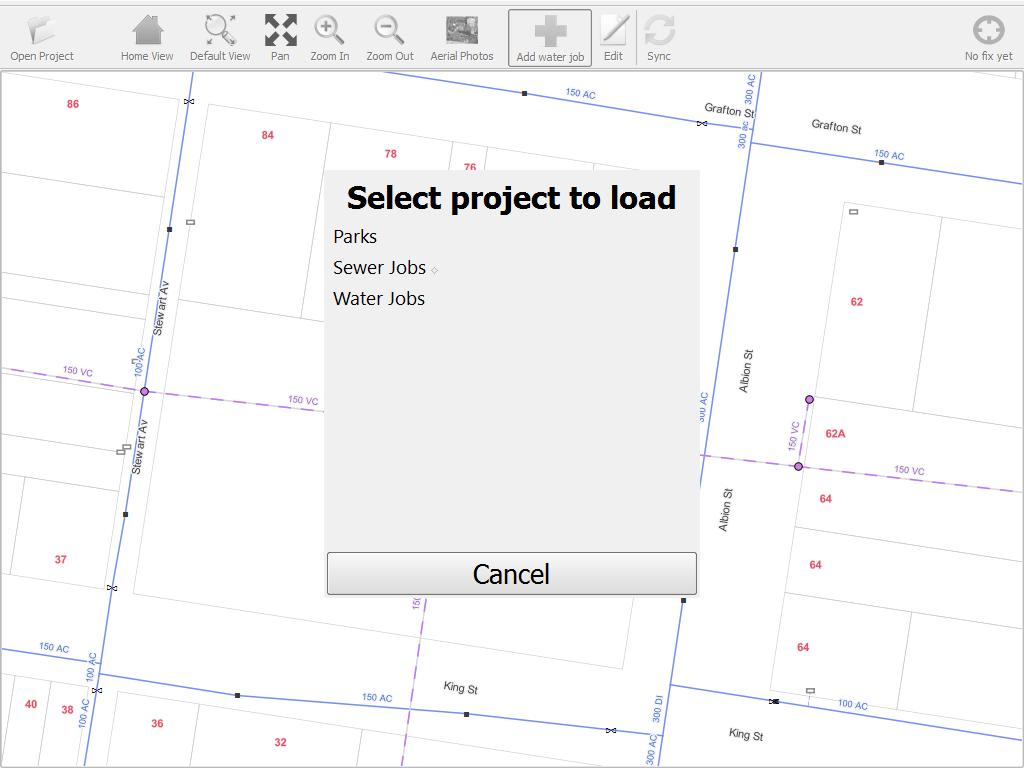
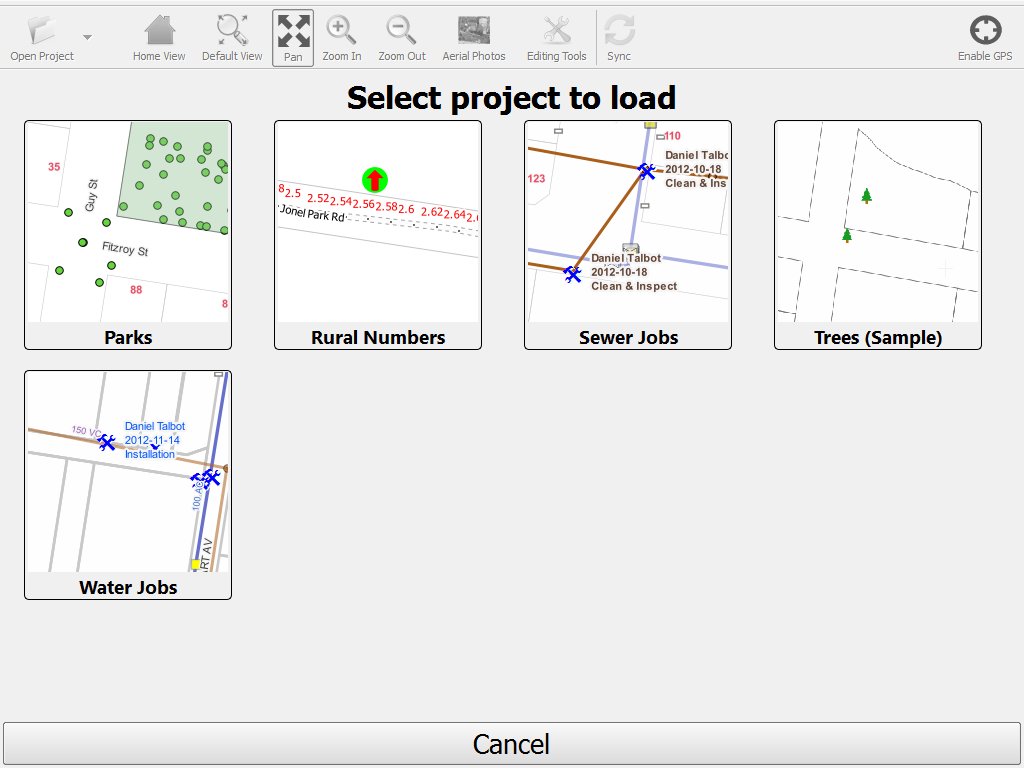
Update project image

diff --git a/index.html b/index.html
@@ -92,7 +92,7 @@
                     <img src="images/Screen1.png" alt="">
                     <div class="carousel-caption">
                       <h4>Loading a project</h4>
-                      <p>The user is presented with a simple list of projects.
+                      <p>The user is presented with a simple view of loaded projects.
                         Projects are just noraml QGIS .qgs projects.</p>
                     </div>
                   </div>
